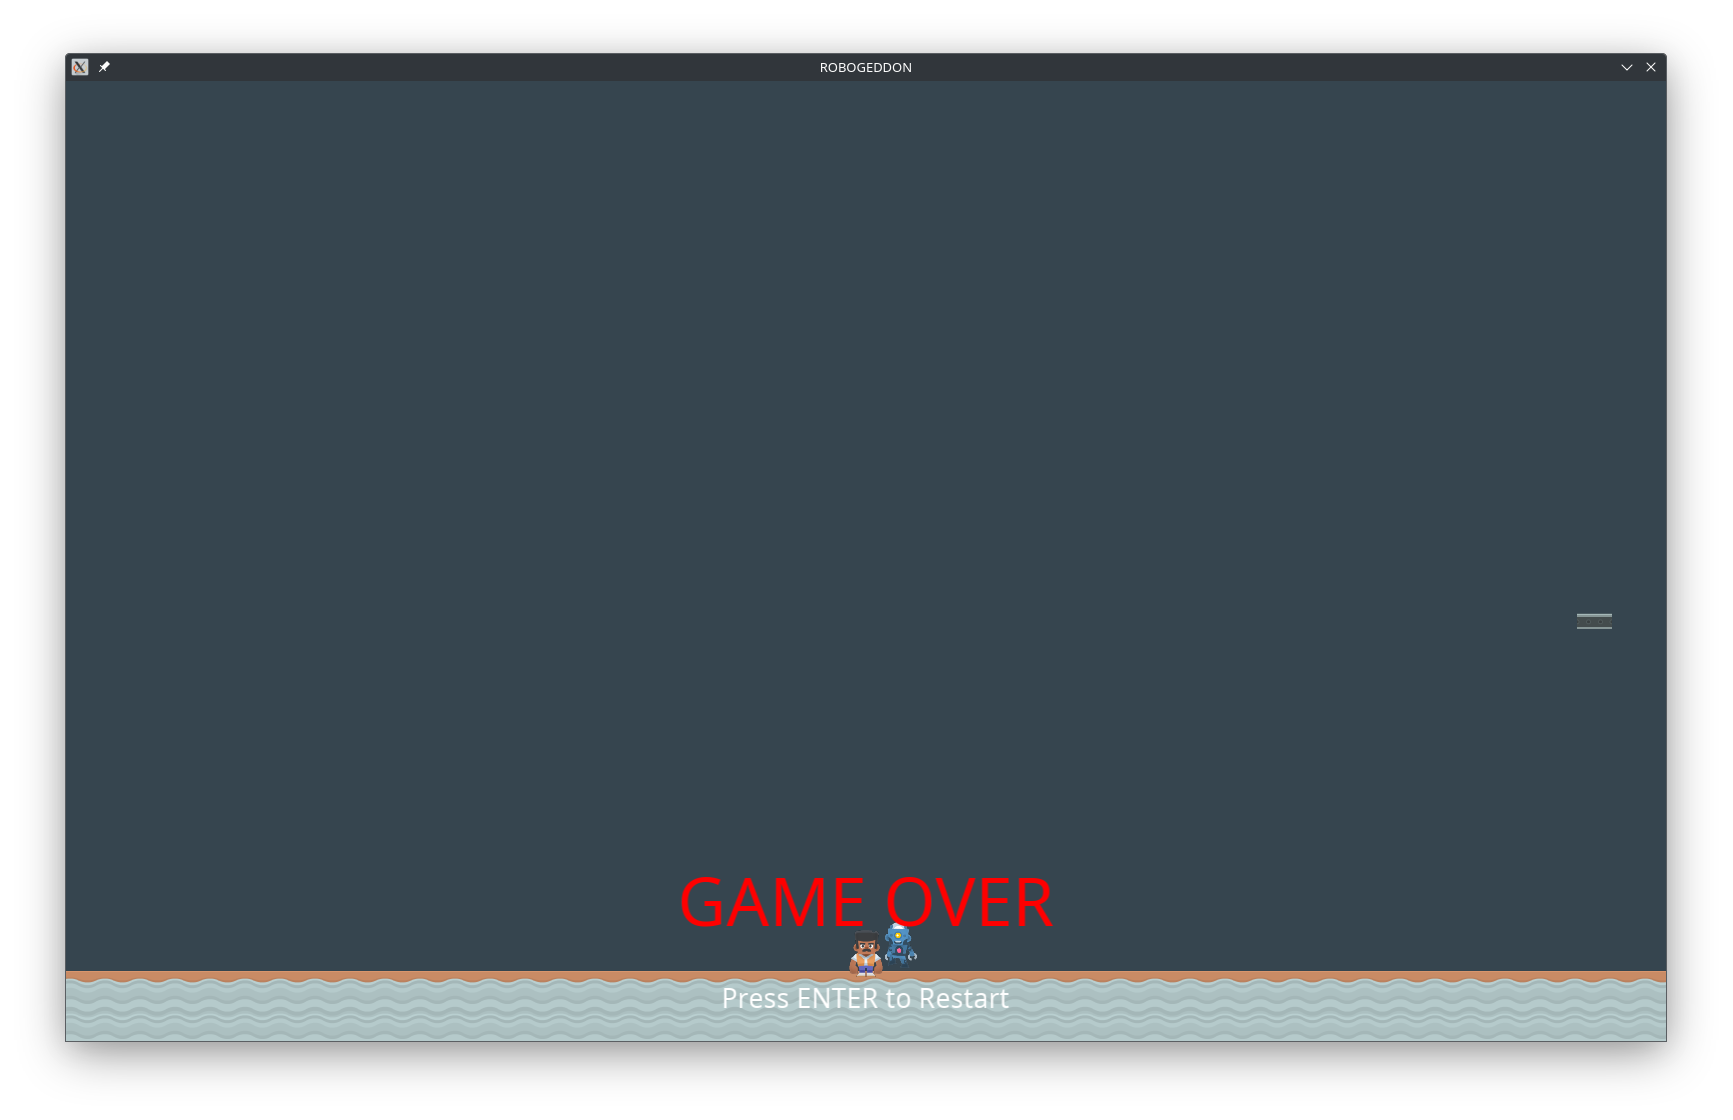
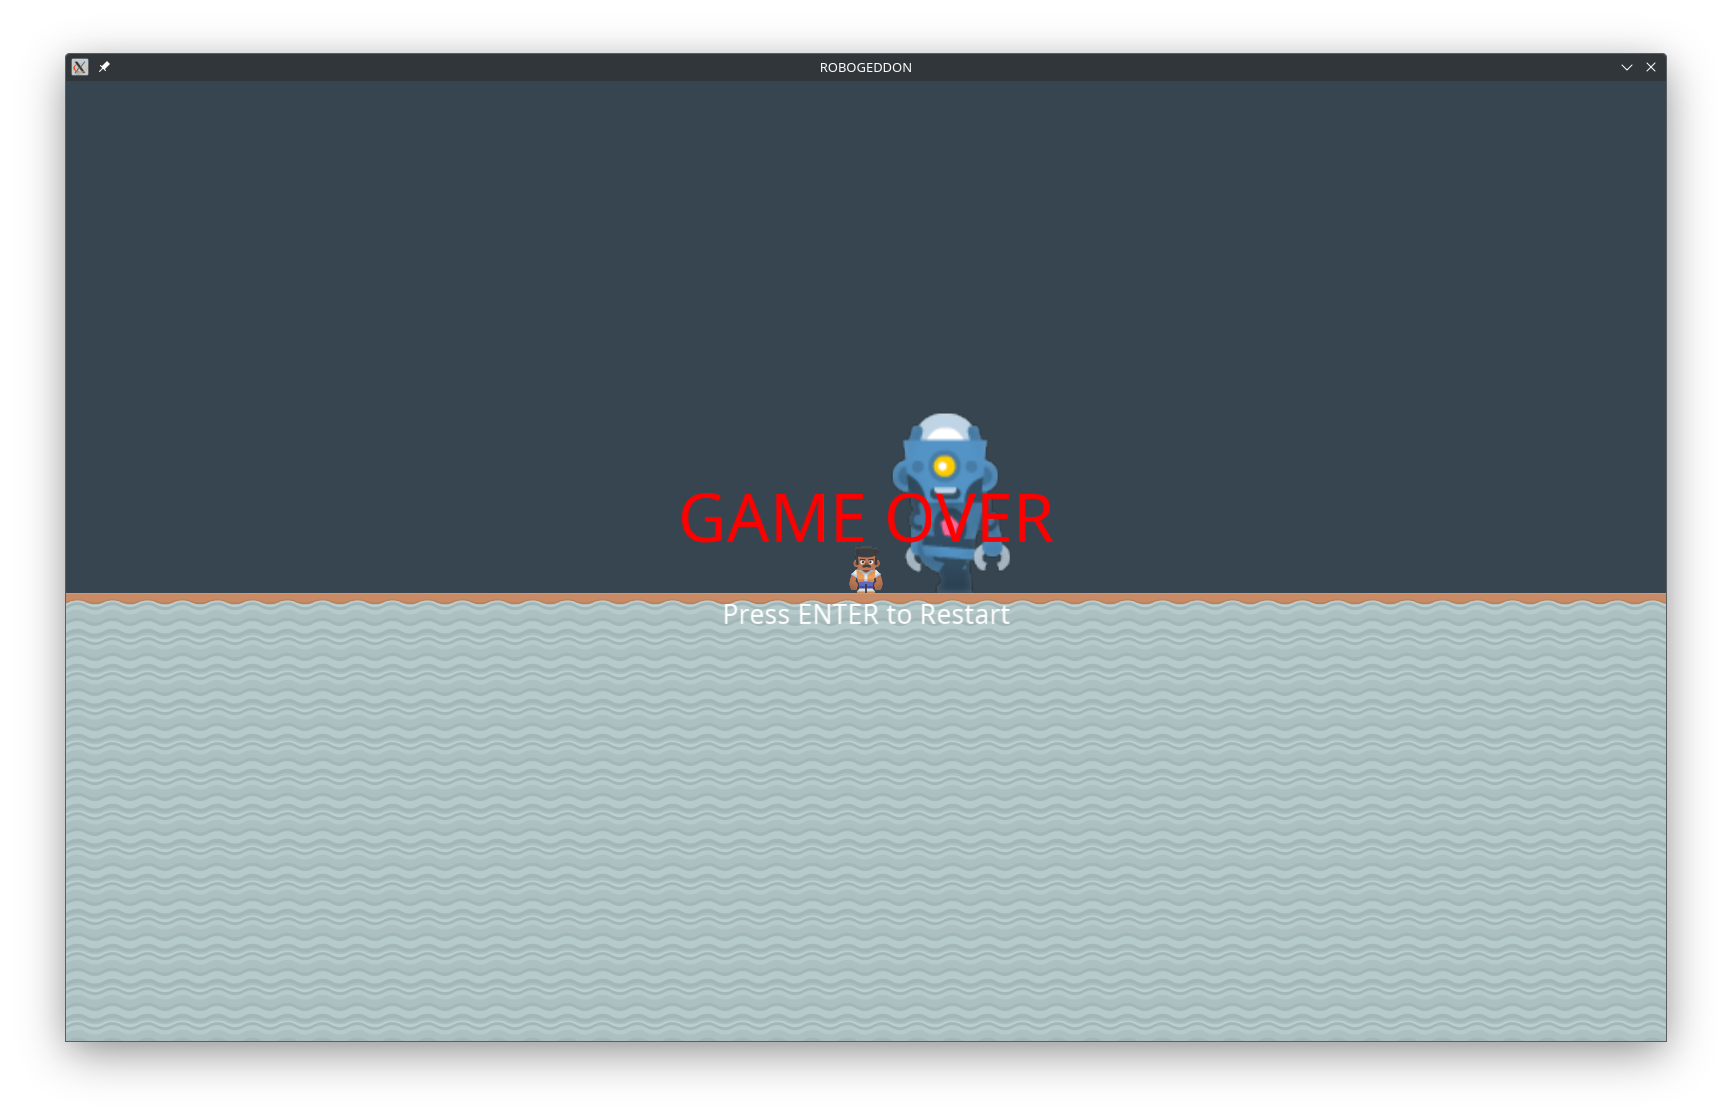
updated game over image

diff --git a/README.md b/README.md
@@ -26,7 +26,7 @@ To run this game, make sure python is installed on your machine. Download and in
 This section explains how to use the project.
 
 ## Screenshots
-This section includes screenshots of the project.
+![game over window screen shot](assets/images/game_over.png)
 
 ## Contributing
 This section explains how to contribute to the project.
